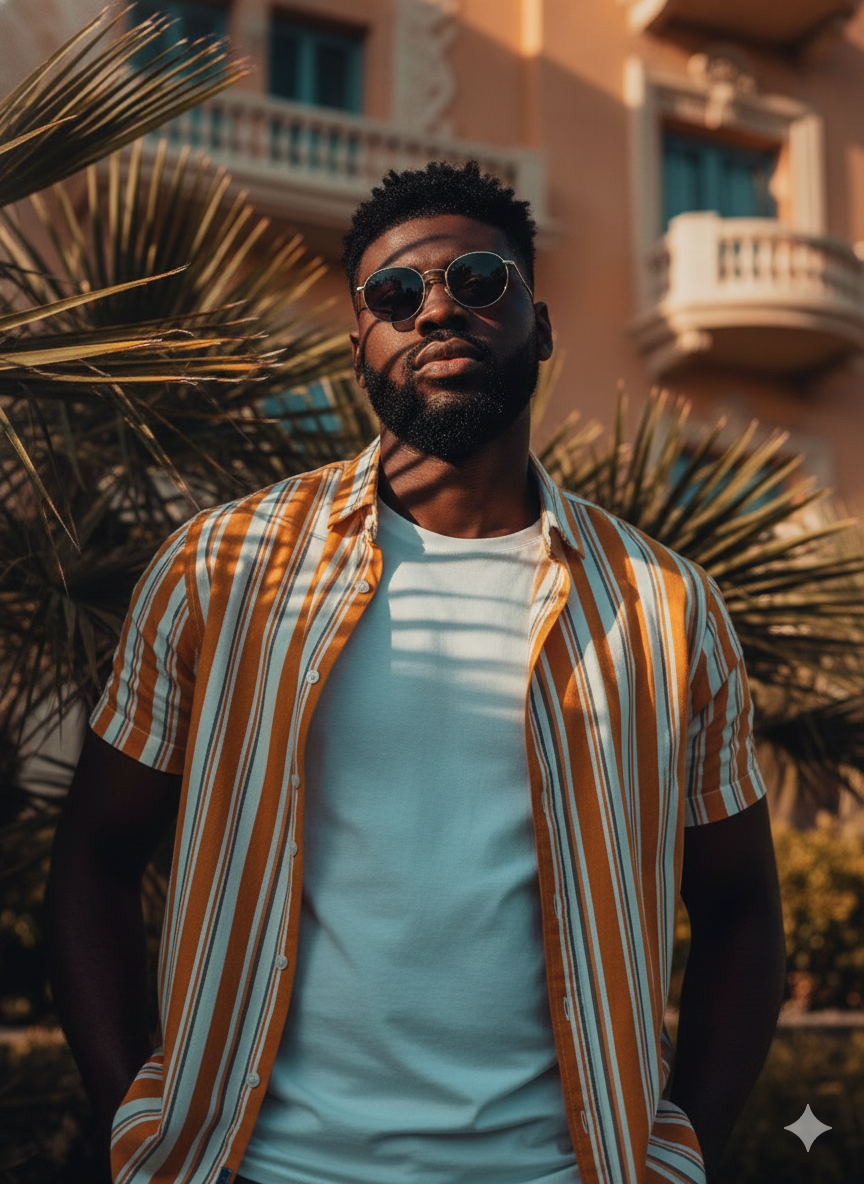
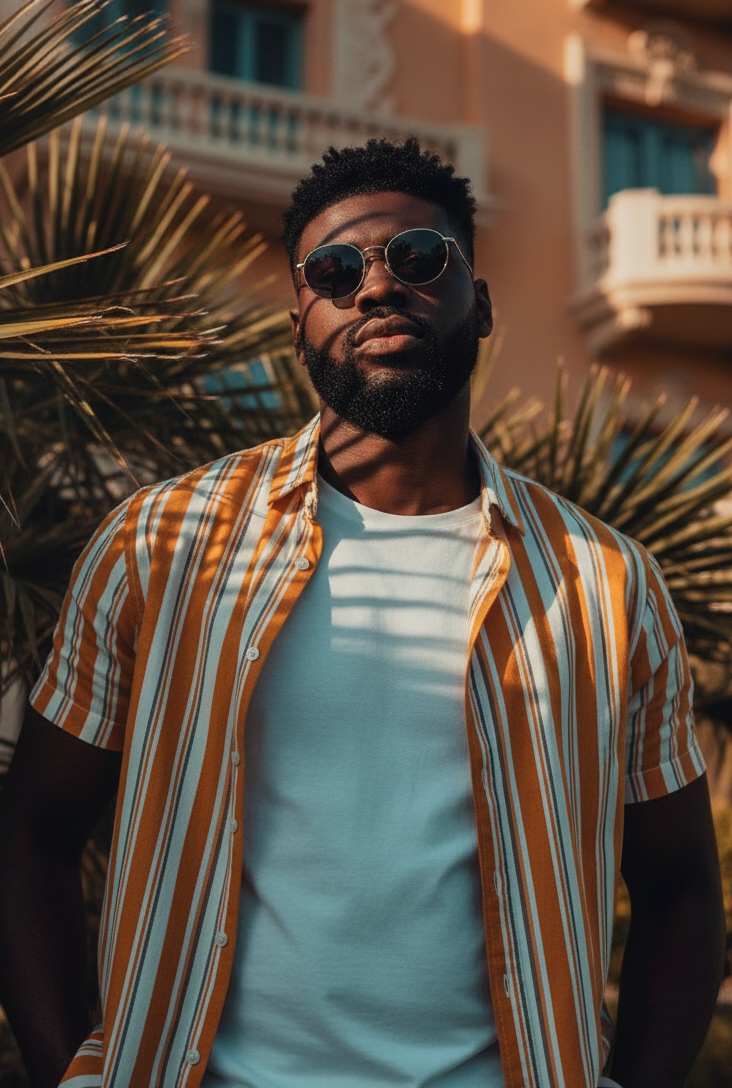
Added slideshow

diff --git a/js/script.js b/js/script.js
@@ -395,7 +395,62 @@ function setActiveNavLink() {
 // Initialize functions on page load
 window.addEventListener('load', () => {
     setActiveNavLink();
+    // Initialize slideshow if on about page
+    const slideshowContainer = document.querySelector('.slideshow-container');
+    if (slideshowContainer) {
+        showSlides(slideIndex);
+        
+        // Add event listeners for prev/next buttons
+        const prevBtn = slideshowContainer.querySelector('.prev');
+        const nextBtn = slideshowContainer.querySelector('.next');
+        
+        if (prevBtn) prevBtn.addEventListener('click', () => plusSlides(-1));
+        if (nextBtn) nextBtn.addEventListener('click', () => plusSlides(1));
+        
+        // Add event listeners for dots
+        const dots = document.querySelectorAll('.dot');
+        dots.forEach(dot => {
+            dot.addEventListener('click', () => {
+                const slideNum = parseInt(dot.getAttribute('data-slide'));
+                currentSlide(slideNum);
+            });
+        });
+
+        // Auto slide change
+        setInterval(() => {
+            plusSlides(1);
+        }, 5000);
+    }
 });
+
+// Slideshow logic
+let slideIndex = 1;
+
+function plusSlides(n) {
+    showSlides(slideIndex += n);
+}
+
+function currentSlide(n) {
+    showSlides(slideIndex = n);
+}
+
+function showSlides(n) {
+    let i;
+    let slides = document.getElementsByClassName("mySlides");
+    let dots = document.getElementsByClassName("dot");
+    if (slides.length === 0) return; // Exit if no slides (not on about page)
+    
+    if (n > slides.length) {slideIndex = 1}    
+    if (n < 1) {slideIndex = slides.length}
+    for (i = 0; i < slides.length; i++) {
+        slides[i].style.display = "none";  
+    }
+    for (i = 0; i < dots.length; i++) {
+        dots[i].className = dots[i].className.replace(" active", "");
+    }
+    slides[slideIndex-1].style.display = "block";  
+    dots[slideIndex-1].className += " active";
+}
 
 // Run animations on scroll
 window.addEventListener('scroll', () => {

diff --git a/css/style.css b/css/style.css
@@ -652,10 +652,96 @@ section {
     flex: 1;
 }
 
-.about-image img {
-    width: 100%;
+/* Slideshow styles */
+.slideshow-container {
+    max-width: 100%;
+    position: relative;
+    margin: auto;
     border-radius: 10px;
+    overflow: hidden;
     box-shadow: 0 10px 20px var(--shadow-color);
+}
+
+.mySlides {
+    display: none;
+}
+
+.mySlides img {
+    width: 100%;
+    height: 600px; /* Increased height for better visibility */
+    object-fit: contain; /* Shows entire photo */
+    background-color: var(--card-bg); /* Neutral background for letterboxing */
+    border-radius: 10px;
+    vertical-align: middle;
+}
+
+/* Next & previous buttons */
+.prev, .next {
+    cursor: pointer;
+    position: absolute;
+    top: 50%;
+    width: auto;
+    padding: 16px;
+    margin-top: -22px;
+    color: white;
+    font-weight: bold;
+    font-size: 18px;
+    transition: 0.6s ease;
+    border-radius: 0 3px 3px 0;
+    user-select: none;
+    background-color: rgba(0,0,0,0.3);
+    z-index: 10;
+}
+
+.next {
+    right: 0;
+    border-radius: 3px 0 0 3px;
+}
+
+.prev:hover, .next:hover {
+    background-color: var(--primary-color);
+}
+
+/* The dots/bullets/indicators */
+.slideshow-dots {
+    text-align: center;
+    padding-top: 15px;
+}
+
+.dot {
+    cursor: pointer;
+    height: 12px;
+    width: 12px;
+    margin: 0 5px;
+    background-color: #bbb;
+    border-radius: 50%;
+    display: inline-block;
+    transition: background-color 0.6s ease;
+}
+
+.active, .dot:hover {
+    background-color: var(--primary-color);
+}
+
+/* Specific fix for nav dots that should not have primary background */
+.dot.active {
+    background-color: var(--primary-color);
+}
+
+/* Ensure nav active link has no background */
+nav ul li a.active {
+    background-color: transparent;
+}
+
+/* Fading animation */
+.fade {
+    animation-name: fade;
+    animation-duration: 1.5s;
+}
+
+@keyframes fade {
+    from {opacity: .4} 
+    to {opacity: 1}
 }
 
 .about-text {

diff --git a/about.html b/about.html
@@ -61,7 +61,34 @@
             
             <div class="about-content">
                 <div class="about-image">
-                    <img src="images/Profile.png" alt="Kwame's Profile Picture" class="profile-img">
+                    <div class="slideshow-container">
+                        <div class="mySlides fade">
+                            <img src="images/Profile.png" alt="Kwame's Profile Picture">
+                        </div>
+                        <div class="mySlides fade">
+                            <img src="images/20260119_170645.jpg" alt="Kwame in Action">
+                        </div>
+                        <div class="mySlides fade">
+                            <img src="images/file_00000000cf6471fd8bdb7e9ea25c285b.png" alt="Kwame working">
+                        </div>
+                        <div class="mySlides fade">
+                            <img src="images/20260119_170655.jpg" alt="Kwame's Lifestyle">
+                        </div>
+                        <div class="mySlides fade">
+                            <img src="images/1780828885329.png" alt="Kwame's Lifestyle">
+                        </div>
+                        
+                        <!-- Next and previous buttons -->
+                        <a class="prev">&#10094;</a>
+                        <a class="next">&#10095;</a>
+                    </div>
+                    <!-- The dots/circles -->
+                    <div class="slideshow-dots">
+                        <span class="dot" data-slide="1"></span>
+                        <span class="dot" data-slide="2"></span>
+                        <span class="dot" data-slide="3"></span>
+                        <span class="dot" data-slide="4"></span>
+                    </div>
                 </div>
                 <div class="about-text">
                     <h3>Web Developer & Designer</h3>

diff --git a/index.html b/index.html
@@ -72,7 +72,7 @@
             <div class="hero-image">
                 <div class="image-container">
                     <!-- Replace with your image -->
-                    <div class="placeholder-image"><img src="images/Cover.png" alt="Kwame's profile image"></div>
+                    <div class="placeholder-image"><img src="images/1780828885329.png" alt="Kwame's profile image"></div>
                 </div>
             </div>
         </section>
